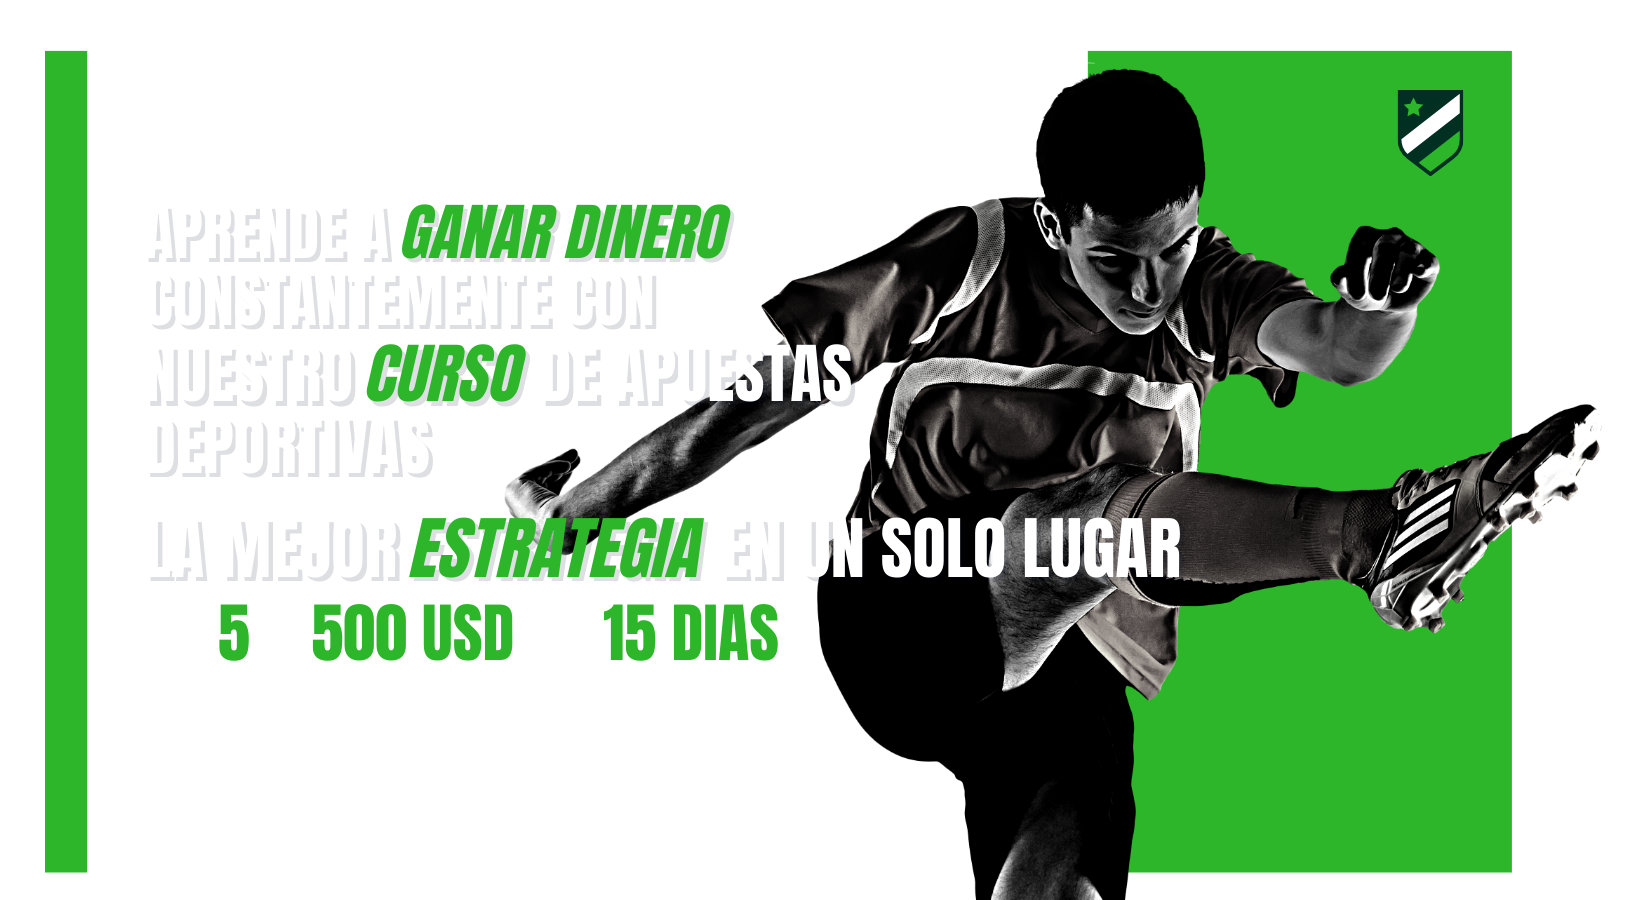
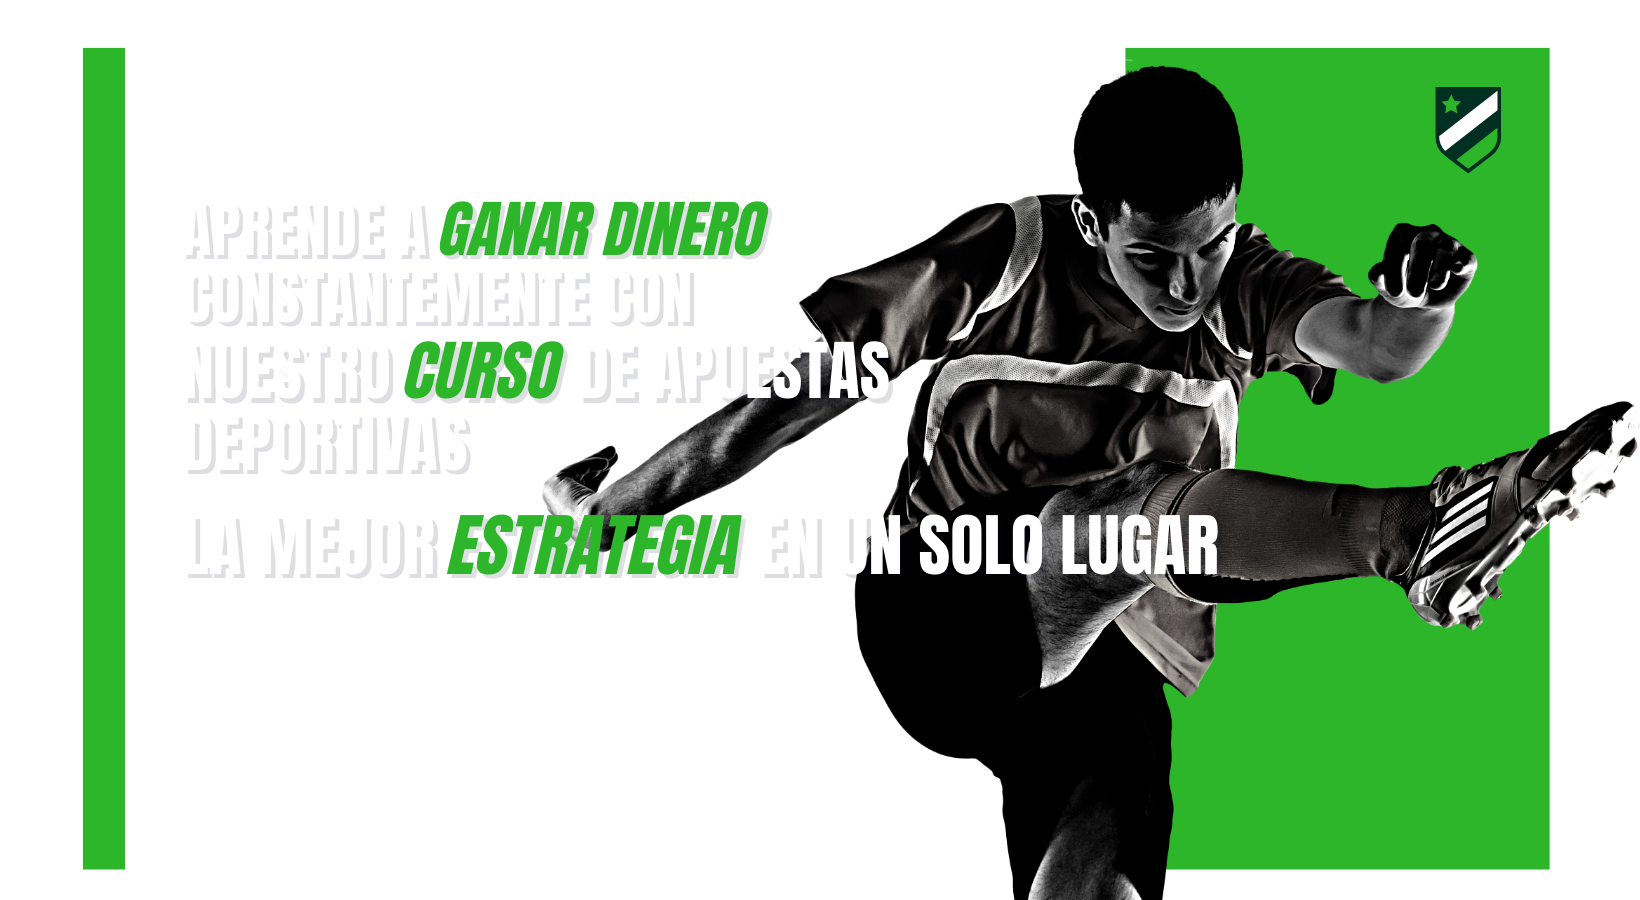
📦 NEW: add new course bets

Changed region(s): [[0.0, 0.0311, 1.0, 1.0]]

diff --git a/src/components/Form/index.js b/src/components/Form/index.js
@@ -3,7 +3,7 @@ import { saveData } from '../../helpers/saveData'
 import { addDoc, collection } from 'firebase/firestore'
 import { db } from '../../firebase/config'
 import { FormSC } from './style'
-export const Form = ({ text, action }) => {
+export const Form = ({ text, textButton }) => {
   const [mail, setMail] = useState({})
   const debounceRef = useRef()
 
@@ -36,7 +36,7 @@ export const Form = ({ text, action }) => {
               required={true}
             />
           </div>
-          <button type='submit'>DA CLICK PARA {action} </button>
+          <button type='submit'>DA CLICK PARA {textButton} </button>
         </form>
       </FormSC>
     </>

diff --git a/src/components/Banner/index.js b/src/components/Banner/index.js
@@ -25,15 +25,15 @@ export const Banner = () => {
       </p>
 
       <BannerSC>
-        <Link href={'/ebook'}>
+        <Link href={'https://hotm.art/uS5aS4N'}>
           <ImageBannerSC
-            src={banner1}
+            src={banner2}
             alt='Descarga E-book gratis'
             priority={''}
           />
         </Link>
-        <Link href={'/'}>
-          <ImageBannerSC src={banner2} alt='Curso apuestas' priority={''} />
+        <Link href={'/ebook'}>
+          <ImageBannerSC src={banner1} alt='Curso apuestas' priority={''} />
         </Link>
       </BannerSC>
 

diff --git a/src/screens/EbookScreen/index.js b/src/screens/EbookScreen/index.js
@@ -1,12 +1,13 @@
-import { Banner } from '../../components/Banner'
 import { Footer } from '../../components/Footer'
 import { Header } from '../../components/Header'
 import { Form } from '../../components/Form'
+import { PortadaEbook } from '../../components/PortadaEbook'
 export const EbookScreen = () => {
   return (
     <>
       <Header />
-      <Form text={'Descarga el E-book'} action={'DESCARGAR'} />
+      <PortadaEbook />
+      <Form text={'Descarga el E-book'} textButton={'DESCARGAR'} />
       <Footer />
     </>
   )

diff --git a/src/components/PortadaEbook/index.js b/src/components/PortadaEbook/index.js
@@ -1,0 +1,12 @@
+import { BannerSC, ImageBannerSC } from '../Banner/styles'
+import banner1 from '../../../public/assets/banners/1.png'
+import Image from 'next/image'
+export const PortadaEbook = () => {
+  return (
+    <>
+      <BannerSC>
+        <ImageBannerSC src={banner1} alt='Ebook gratis' priority={''} />
+      </BannerSC>
+    </>
+  )
+}

diff --git a/src/screens/Main/index.js b/src/screens/Main/index.js
@@ -10,7 +10,7 @@ export const Main = () => {
       <Banner />
       <Form
         text={'Suscribete para obtener contenido exclusivo'}
-        action={'SUSCRIBIRTE'}
+        textButton={'SUSCRIBIRTE'}
       />
       <Footer />
     </>
